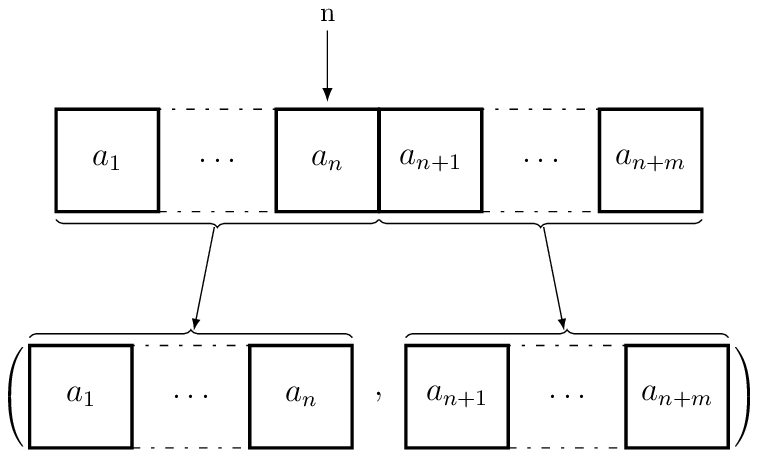
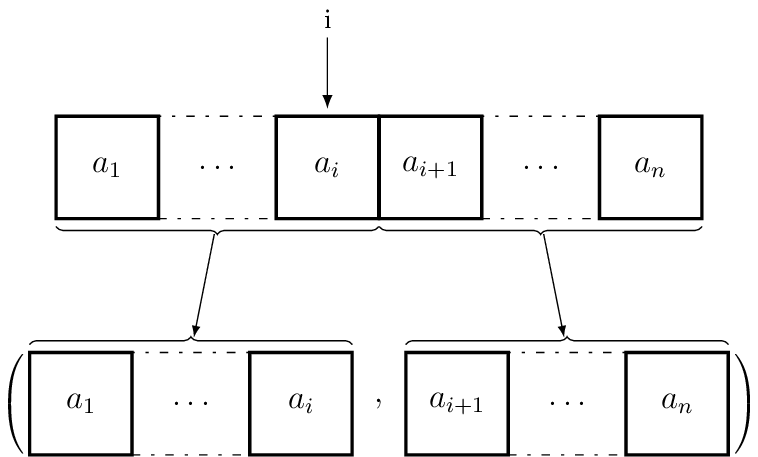
renumbering indices

diff --git a/src/images/splitAt.tex b/src/images/splitAt.tex
@@ -3,25 +3,25 @@
 \matrix (A) [collection, name prefix=a] {
     \node (1)   {$a_1$};     &
     \ellipsis                &
-    \node (n)   {$a_n$};     &
-    \node (n+1) {$a_{n+1}$}; &
+    \node (i)   {$a_i$};     &
+    \node (i+1) {$a_{i+1}$}; &
     \ellipsis                &
-    \node (n+m) {$a_{n+m}$}; \\
+    \node (n) {$a_{n}$}; \\
 };
 
 \matrix [collection, left delimiter=(, right delimiter=), below of=A, name prefix=b, node distance=3cm] {
   \node (1)   {$a_1$};     &
   \ellipsis                &
-  \node (n)   {$a_n$};     &
+  \node (i)   {$a_i$};     &
   \tuplecomma              &
-  \node (n+1) {$a_{n+1}$}; &
+  \node (i+1) {$a_{i+1}$}; &
   \ellipsis                &
-  \node (n+m) {$a_{n+m}$}; \\
+  \node (n) {$a_{n}$};     \\
 };
 
-\toppointer{an.north}{n}
+\toppointer{ai.north}{i}
 
-\bracetobrace{a1.south west}{an.south east}{b1.north west}{bn.north east}
-\bracetobrace{an+1.south west}{an+m.south east}{bn+1.north west}{bn+m.north east}
+\bracetobrace{a1.south west}{ai.south east}{b1.north west}{bi.north east}
+\bracetobrace{ai+1.south west}{an.south east}{bi+1.north west}{bn.north east}
 
 \input{_footer.tex}

diff --git a/src/images/slice.tex b/src/images/slice.tex
@@ -5,7 +5,7 @@
   \node (2) {$a_2$};       &
   \node (3) {$a_3$};       &
   \ellipsis                &
-  \node (i-1) {$a_{i-1}$};       &
+  \node (i-1) {$a_{i-1}$}; &
   \node (i) {$a_i$};       &
   \node (i+1) {$a_{i+1}$}; &
   \ellipsis                &
@@ -13,7 +13,7 @@
 };
 
 \toppointer{a2.north}{from}
-\toppointer{ai.north}{to}
+\toppointer{ai.north}{until}
 
 \matrix (B) [collection, below of=A, matrix anchor=b1.west, node distance=3cm] at (a3.west) {
   \node (b1) {$a_3$};      &
